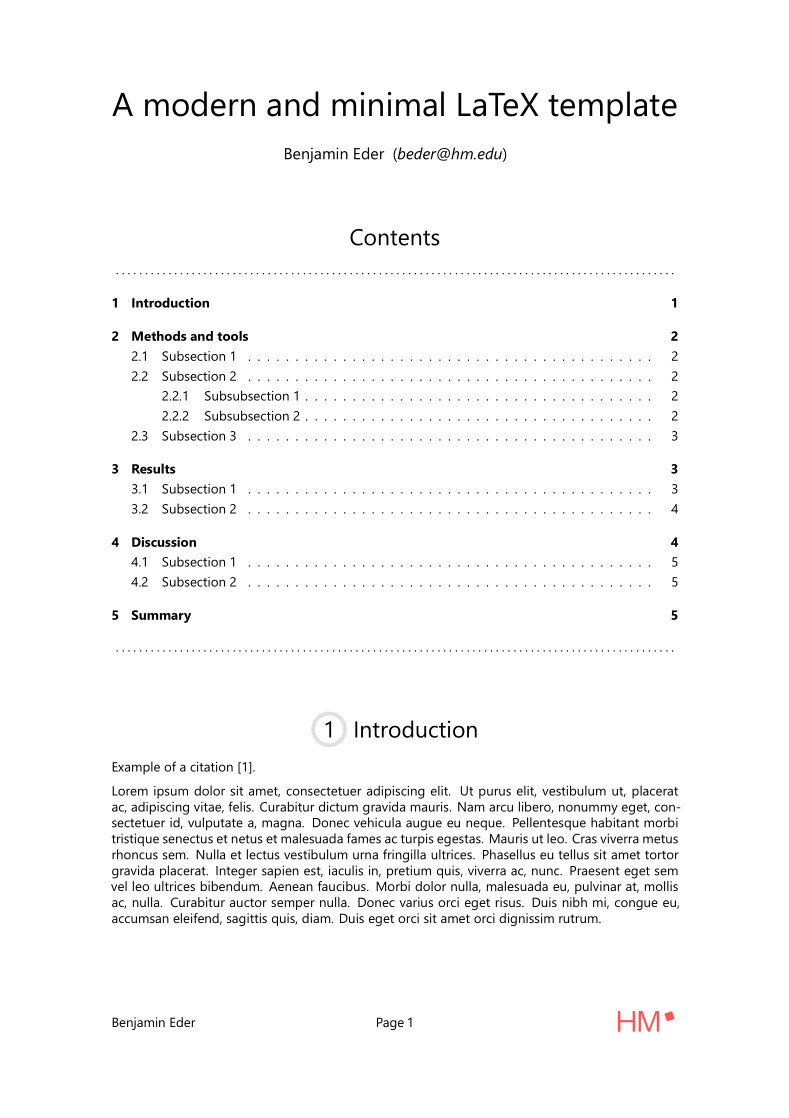
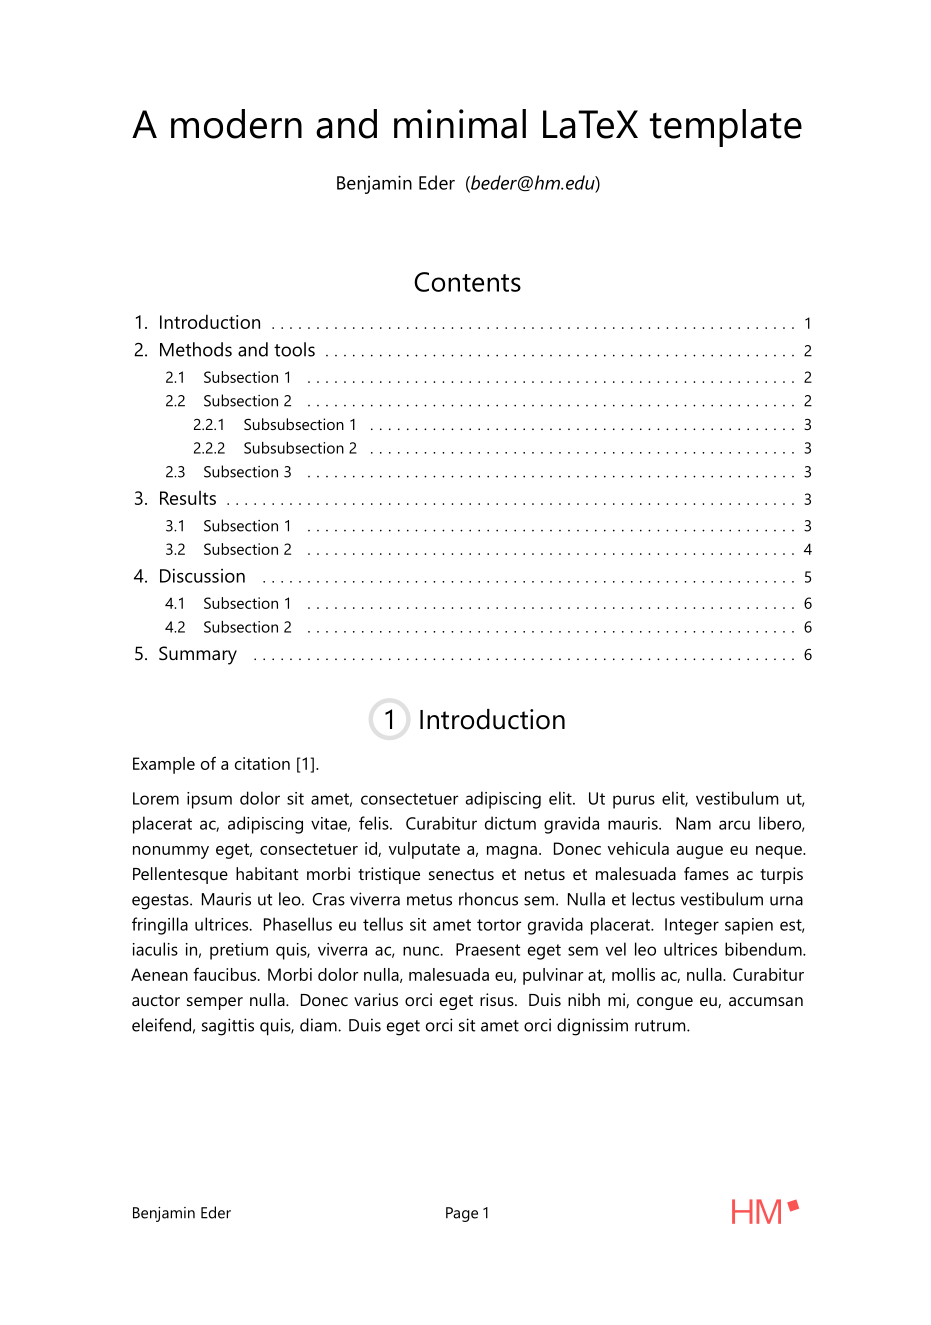
Changing TOC appearance and font size

diff --git a/template/template.tex b/template/template.tex
@@ -61,16 +61,34 @@
 \renewcommand{\tableofcontents}[1][\contentsname]{%
     \section*{#1}
 
-    \begin{center}
-        \dotfill
-    \end{center}
-
     \onehalfspacing
-    \@starttoc{toc}
-    \singlespacing
-
     \begin{center}
-        \dotfill \\[1.5cm]
+        \@starttoc{toc}
     \end{center}
+    \singlespacing
 }
 \makeatother
+
+\contentsmargin{0cm}
+
+\titlecontents{section}
+[0.6cm]
+{\large}
+{\contentslabel[\thecontentslabel.]{1.3em}}
+{}
+{\normalsize\hspace{0.2cm}\titlerule*[0.2cm]{.}\hspace{0.2cm}\contentspage}
+
+\titlecontents{subsection}
+[1.6cm]
+{}
+{\contentslabel[\thecontentslabel]{2.4em}}
+{}
+{\normalsize\hspace{0.2cm}\titlerule*[0.2cm]{.}\hspace{0.2cm}\contentspage}
+
+\titlecontents{subsubsection}
+[2.5cm]
+{}
+{\contentslabel[\thecontentslabel]{3.2em}}
+{}
+{\normalsize\hspace{0.2cm}\titlerule*[0.2cm]{.}\hspace{0.2cm}\contentspage}
+

diff --git a/template/packages.tex b/template/packages.tex
@@ -6,6 +6,7 @@
 \usepackage{microtype}
 \usepackage{titlesec} % Used to format section headers
 \usepackage{setspace} % Used to customize line/paragraph spacing
+\usepackage{titletoc} % Used to format table of contents sections
 
 % Package for custom headers and footers
 \usepackage{scrpage2}

diff --git a/main.tex b/main.tex
@@ -25,6 +25,7 @@
 
     \tableofcontents % Uncomment if you don't want a table of contents
 
+    \fontsize{11pt}{16pt}\selectfont % Font size for the main text
     \input{content/content.tex}
 
     \printbibliography
